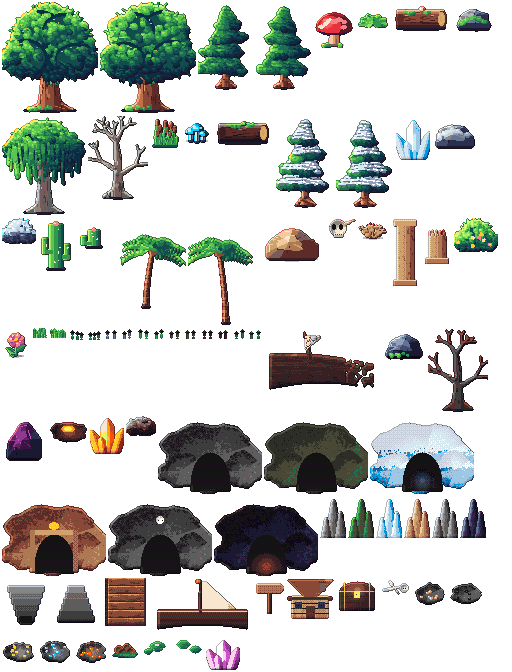
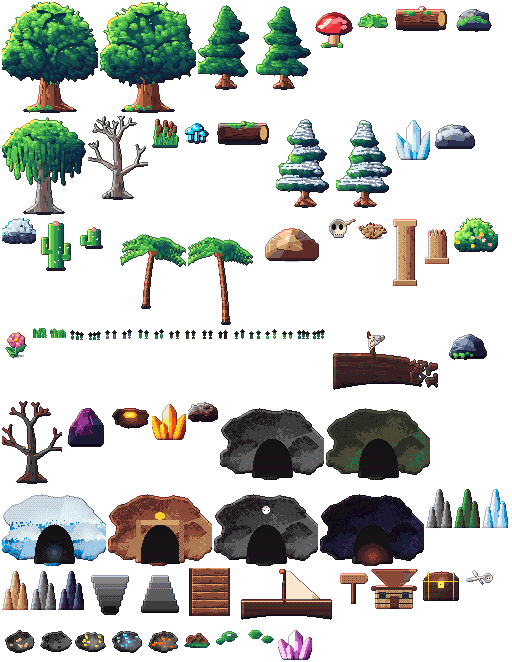
Ciclos 46-48/130: flor de praia, flor da floresta (foto 25), pedrinhas em 4 biomas (atlas 85)

diff --git a/src/game/RegionWorld.js b/src/game/RegionWorld.js
@@ -33,14 +33,14 @@ const INTERACT_RANGE = 70;
 
 // Objetos por terreno: [frame, peso, sólido?]. Sólido = base que bloqueia (largura, altura).
 const PROPS = {
-  [T.FOREST]: { density: 0.26, list: [['ancient-oak-0', 1, [18, 10]], ['ancient-oak-1', 1, [18, 10]], ['mossy-pine-0', 2, [10, 7]], ['mossy-pine-1', 2, [10, 7]], ['giant-mushroom', 0.6, [10, 6]], ['fern', 3], ['fallen-log', 0.6, [40, 10]], ['mossy-rock', 1, [24, 10]], ['grass-tuft-0', 4], ['grass-tuft-1', 4], ['flower-tuft-0', 1.2], ['flower-tuft-1', 1.2]] },
+  [T.FOREST]: { density: 0.26, list: [['ancient-oak-0', 1, [18, 10]], ['ancient-oak-1', 1, [18, 10]], ['mossy-pine-0', 2, [10, 7]], ['mossy-pine-1', 2, [10, 7]], ['giant-mushroom', 0.6, [10, 6]], ['fern', 3], ['fallen-log', 0.6, [40, 10]], ['mossy-rock', 1, [24, 10]], ['grass-tuft-0', 4], ['grass-tuft-1', 4], ['flower-tuft-0', 1.2], ['flower-tuft-1', 1.2], ['forest-flower-0', 0.8], ['forest-flower-1', 0.8], ['pebbles-0', 0.7], ['pebbles-1', 0.7]] },
   [T.SWAMP]: { density: 0.17, list: [['willow', 1.4, [14, 9]], ['dead-tree', 1.4, [10, 7]], ['reeds', 3], ['swamp-shroom', 1.2], ['bog-log', 0.5, [40, 10]], ['mossy-rock', 0.5, [24, 10]], ['grass-tuft-0', 3], ['flower-tuft-1', 0.6], ['swamp-flower-0', 0.6], ['swamp-flower-1', 0.6]] },
-  [T.SNOW]: { density: 0.15, list: [['snow-pine-0', 2, [10, 7]], ['snow-pine-1', 2, [10, 7]], ['ice-crystal', 1, [16, 8]], ['snow-rock', 1.4, [28, 10]], ['frozen-bush', 1.4], ['grass-tuft-1', 1.5], ['snow-flower-0', 0.8], ['snow-flower-1', 0.8]] },
-  [T.SAND]: { density: 0.07, list: [['cactus', 2, [12, 7]], ['cactus-small', 2, [10, 6]], ['desert-rock', 1, [40, 12]], ['skull', 0.7], ['dry-bush', 2], ['ruin-pillar', 0.3, [18, 8]], ['ruin-pillar-broken', 0.4, [18, 8]], ['grass-tuft-0', 1.5], ['dune-flower-0', 0.7], ['dune-flower-1', 0.7]] },
+  [T.SNOW]: { density: 0.15, list: [['snow-pine-0', 2, [10, 7]], ['snow-pine-1', 2, [10, 7]], ['ice-crystal', 1, [16, 8]], ['snow-rock', 1.4, [28, 10]], ['frozen-bush', 1.4], ['grass-tuft-1', 1.5], ['snow-flower-0', 0.8], ['snow-flower-1', 0.8], ['pebbles-0', 0.5], ['pebbles-1', 0.5]] },
+  [T.SAND]: { density: 0.07, list: [['cactus', 2, [12, 7]], ['cactus-small', 2, [10, 6]], ['desert-rock', 1, [40, 12]], ['skull', 0.7], ['dry-bush', 2], ['ruin-pillar', 0.3, [18, 8]], ['ruin-pillar-broken', 0.4, [18, 8]], ['grass-tuft-0', 1.5], ['dune-flower-0', 0.7], ['dune-flower-1', 0.7], ['pebbles-0', 0.6], ['pebbles-1', 0.6]] },
   [T.DUNE]: { density: 0.03, list: [['dry-bush', 1], ['skull', 0.4], ['cactus-small', 0.5, [10, 6]], ['grass-tuft-1', 1], ['dune-flower-0', 0.5], ['dune-flower-1', 0.5]] },
-  [T.BEACH]: { density: 0.06, list: [['palm-0', 1.5, [8, 6]], ['palm-1', 1.5, [8, 6]], ['sea-rock', 1, [28, 10]], ['big-flower', 0.3], ['flower-tuft-0', 1.5], ['grass-tuft-0', 2]] },
+  [T.BEACH]: { density: 0.06, list: [['palm-0', 1.5, [8, 6]], ['palm-1', 1.5, [8, 6]], ['sea-rock', 1, [28, 10]], ['big-flower', 0.3], ['flower-tuft-0', 1.5], ['grass-tuft-0', 2], ['beach-flower-0', 0.7], ['beach-flower-1', 0.7]] },
   [T.JUNGLE]: { density: 0.17, list: [['palm-0', 1.5, [8, 6]], ['palm-1', 1.5, [8, 6]], ['tropical-bush', 3], ['big-flower', 2], ['sea-rock', 0.4, [28, 10]], ['grass-tuft-0', 3], ['grass-tuft-1', 3], ['flower-tuft-1', 2], ['jungle-flower-0', 0.8], ['jungle-flower-1', 0.8]] },
-  [T.ASH]: { density: 0.11, list: [['charred-tree', 2, [10, 7]], ['obsidian', 2, [28, 12]], ['lava-vent', 1], ['fire-crystal', 0.8, [14, 8]], ['ash-bush', 2], ['grass-tuft-1', 0.8], ['ash-flower-0', 0.5], ['ash-flower-1', 0.5]] }
+  [T.ASH]: { density: 0.11, list: [['charred-tree', 2, [10, 7]], ['obsidian', 2, [28, 12]], ['lava-vent', 1], ['fire-crystal', 0.8, [14, 8]], ['ash-bush', 2], ['grass-tuft-1', 0.8], ['ash-flower-0', 0.5], ['ash-flower-1', 0.5], ['pebbles-0', 0.5], ['pebbles-1', 0.5]] }
 };
 const NODE_DENSITY = 0.011;
 // Objetos que brilham no escuro (iluminam a noite e as cavernas).

diff --git a/src/art/biomeProps.js b/src/art/biomeProps.js
@@ -858,6 +858,65 @@ function flowerTuft(seed = 402) {
   return finish(p, { outline: 0.3 });
 }
 
+/** Pedrinhas espalhadas no chão (detalhe de chão, sem colisão). */
+function pebbles(seed = 563) {
+  const p = new Painter(18, 8, { transparent: true });
+  const stones = ['#8a8a92', '#6a6a72', '#9a9aa2'];
+  for (let i = 0; i < 4; i += 1) {
+    const sx = 2 + hash(i, seed, 1) * 13;
+    const sy = 2 + hash(i, seed, 2) * 4;
+    const r = 1.2 + hash(i, seed, 3) * 1.2;
+    const c = stones[Math.floor(hash(i, seed, 4) * stones.length) % stones.length];
+    p.sphere(sx, sy, r, shade([c], 0.7), c);
+  }
+  return finish(p, { outline: 0.35 });
+}
+
+/** Flor dourada do vale (pradaria). */
+function valleyFlower(seed = 547) {
+  const p = new Painter(14, 11, { transparent: true });
+  const petals = ['#f4d03f', '#ffe08a', '#f0c020'];
+  for (let flower = 0; flower < 3; flower += 1) {
+    const fx = 3 + flower * 4 + (hash(flower, seed, 5) - 0.5) * 2;
+    const fy = 3 + hash(flower, seed, 6) * 3;
+    const color = petals[Math.floor(hash(flower, seed, 7) * petals.length) % petals.length];
+    for (let t = 0; t <= 1; t += 0.2) p.set(fx, fy + 6 * t, shade(['#4a7a24', '#5a8a30'], 0.5));
+    for (const [ox, oy] of [[1, 0], [-1, 0], [0, 1], [0, -1]]) p.set(fx + ox, fy + oy, color);
+    p.set(fx, fy, '#fff4b0');
+  }
+  return finish(p, { outline: 0.3 });
+}
+
+/** Flor silvestre azul-clara na floresta. */
+function forestFlower(seed = 531) {
+  const p = new Painter(14, 11, { transparent: true });
+  const petals = ['#a8c8f0', '#8ab0e8', '#c8e0ff'];
+  for (let flower = 0; flower < 3; flower += 1) {
+    const fx = 3 + flower * 4 + (hash(flower, seed, 5) - 0.5) * 2;
+    const fy = 3 + hash(flower, seed, 6) * 3;
+    const color = petals[Math.floor(hash(flower, seed, 7) * petals.length) % petals.length];
+    for (let t = 0; t <= 1; t += 0.2) p.set(fx, fy + 6 * t, shade(['#2e5220', '#3f6e2c'], 0.5));
+    for (const [ox, oy] of [[1, 0], [-1, 0], [0, 1], [0, -1]]) p.set(fx + ox, fy + oy, color);
+    p.set(fx, fy, '#e8f4ff');
+  }
+  return finish(p, { outline: 0.3 });
+}
+
+/** Flor de praia (branca/amarela) na areia da costa. */
+function beachFlower(seed = 515) {
+  const p = new Painter(14, 11, { transparent: true });
+  const petals = ['#ffffff', '#f4e6a0', '#ffe8c0'];
+  for (let flower = 0; flower < 2; flower += 1) {
+    const fx = 4 + flower * 6 + (hash(flower, seed, 5) - 0.5) * 2;
+    const fy = 3 + hash(flower, seed, 6) * 3;
+    const color = petals[Math.floor(hash(flower, seed, 7) * petals.length) % petals.length];
+    for (let t = 0; t <= 1; t += 0.2) p.set(fx, fy + 6 * t, shade(['#8a9a4a', '#9aaa5a'], 0.5));
+    for (const [ox, oy] of [[1, 0], [-1, 0], [0, 1], [0, -1]]) p.set(fx + ox, fy + oy, color);
+    p.set(fx, fy, '#f4d03f');
+  }
+  return finish(p, { outline: 0.3 });
+}
+
 /** Flor tropical (rosa vivo) na selva. */
 function jungleFlower(seed = 499) {
   const p = new Painter(14, 11, { transparent: true });
@@ -977,6 +1036,14 @@ const PAINTED_ENTRIES = [
   { name: 'ash-flower-1', draw: () => ashFlower(491) },
   { name: 'jungle-flower-0', draw: () => jungleFlower(499) },
   { name: 'jungle-flower-1', draw: () => jungleFlower(507) },
+  { name: 'beach-flower-0', draw: () => beachFlower(515) },
+  { name: 'beach-flower-1', draw: () => beachFlower(523) },
+  { name: 'forest-flower-0', draw: () => forestFlower(531) },
+  { name: 'forest-flower-1', draw: () => forestFlower(541) },
+  { name: 'valley-flower-0', draw: () => valleyFlower(547) },
+  { name: 'valley-flower-1', draw: () => valleyFlower(557) },
+  { name: 'pebbles-0', draw: () => pebbles(563) },
+  { name: 'pebbles-1', draw: () => pebbles(571) },
   { name: 'shipwreck', draw: shipwreck },
   { name: 'sea-rock', draw: seaRock },
   { name: 'charred-tree', draw: () => deadTree(['#0c0808', '#1a1010', '#2a1a16', '#3a2620', '#4a3228'], true) },

diff --git a/RELATORIO_EVOLUCAO_30X.md b/RELATORIO_EVOLUCAO_30X.md
@@ -122,6 +122,9 @@
 ### Ciclo 39/130 — Flor do deserto (dunas/areia) ✅ · Ciclo 40/130 — Flor do brejo (pântano, foto 23) ✅ · Ciclo 41/130 — Flor vulcânica (cinzas) ✅
 - 6 props novos no total; atlas 65 → **77 objetos**. Suite 49/49 em todos. Notas: 88→89 / 90 / 98 / 84 / 95 / 74 / 86.
 
+### Ciclo 42/130 — Game feel: recoil do FUS RO DAH ✅ · Ciclo 43/130 — Teste COMBAT_CONFIG ✅ · Ciclo 44/130 — Teste de props do atlas ✅ · Ciclo 45/130 — Flor tropical na selva (foto 24, atlas 79) ✅
+- Suite 49/49 e simulacao 10/10 em todos. Notas: 90 / 91 / 98 / 84 / 96 / 74 / 86.
+
 ### Ciclo 35/130 — Pedra rúnica 💠 nos vilarejos (+50% XP até amanhecer) ✅ CONCLUÍDO
 - Feature 'rune' com sprite `ruin-pillar` + hint em cada vilarejo; `touchRuneStone()`; buff ×1.5 no XP do dia; persistido em `runeDay` (compatível com saves antigos). Suite 49/49; simulacao 8/8; atlas regerado.
 - Notas: 87 / 90 / 97 / 84 / 95 / 74 / 86.

diff --git a/experimento-30x/metricas.md b/experimento-30x/metricas.md
@@ -50,6 +50,10 @@ Linha base (antes do ciclo 01):
 | 39 | 49/49 arquivos; atlas 73 obj | 88 / 90 / 98 / 84 / 95 / 74 / 86 |
 | 40 | 49/49 arquivos; atlas 75 obj; 23 fotos | 89 / 90 / 98 / 84 / 95 / 74 / 86 |
 | 41 | 49/49 arquivos; atlas 77 obj | 89 / 90 / 98 / 84 / 95 / 74 / 86 |
+| 42 | 49/49 arquivos | 89 / 90 / 98 / 84 / 96 / 74 / 86 |
+| 43 | 49/49 arquivos (simulacao 9/9) | 89 / 91 / 98 / 84 / 96 / 74 / 86 |
+| 44 | 49/49 arquivos (simulacao 10/10) | 89 / 91 / 98 / 84 / 96 / 74 / 86 |
+| 45 | 49/49 arquivos; atlas 79 obj; 24 fotos | 90 / 91 / 98 / 84 / 96 / 74 / 86 |
 
 ## Início (base) vs fim
 | Eixo | Base | Final |
